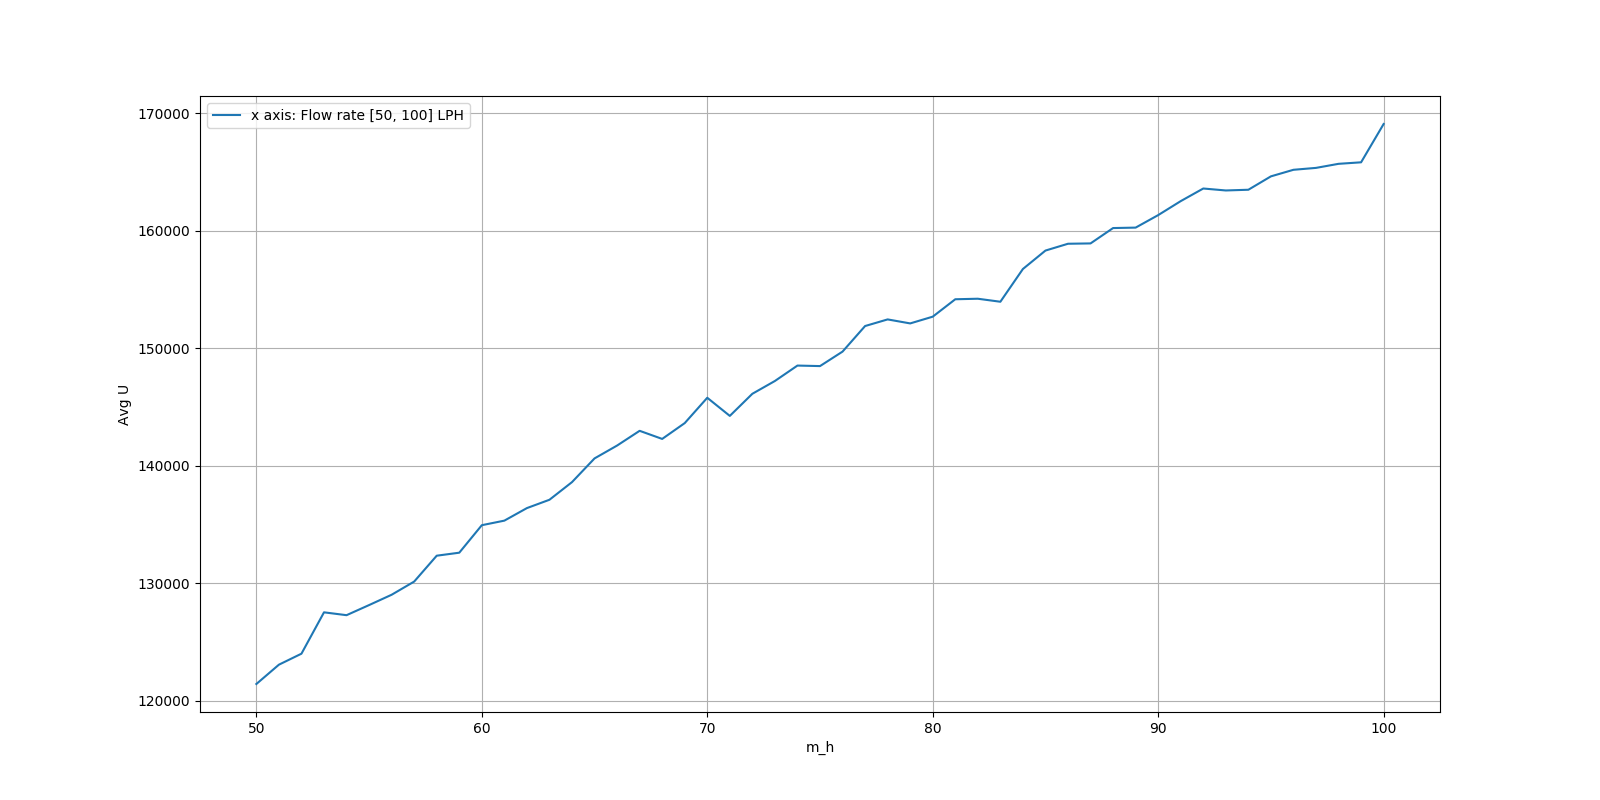
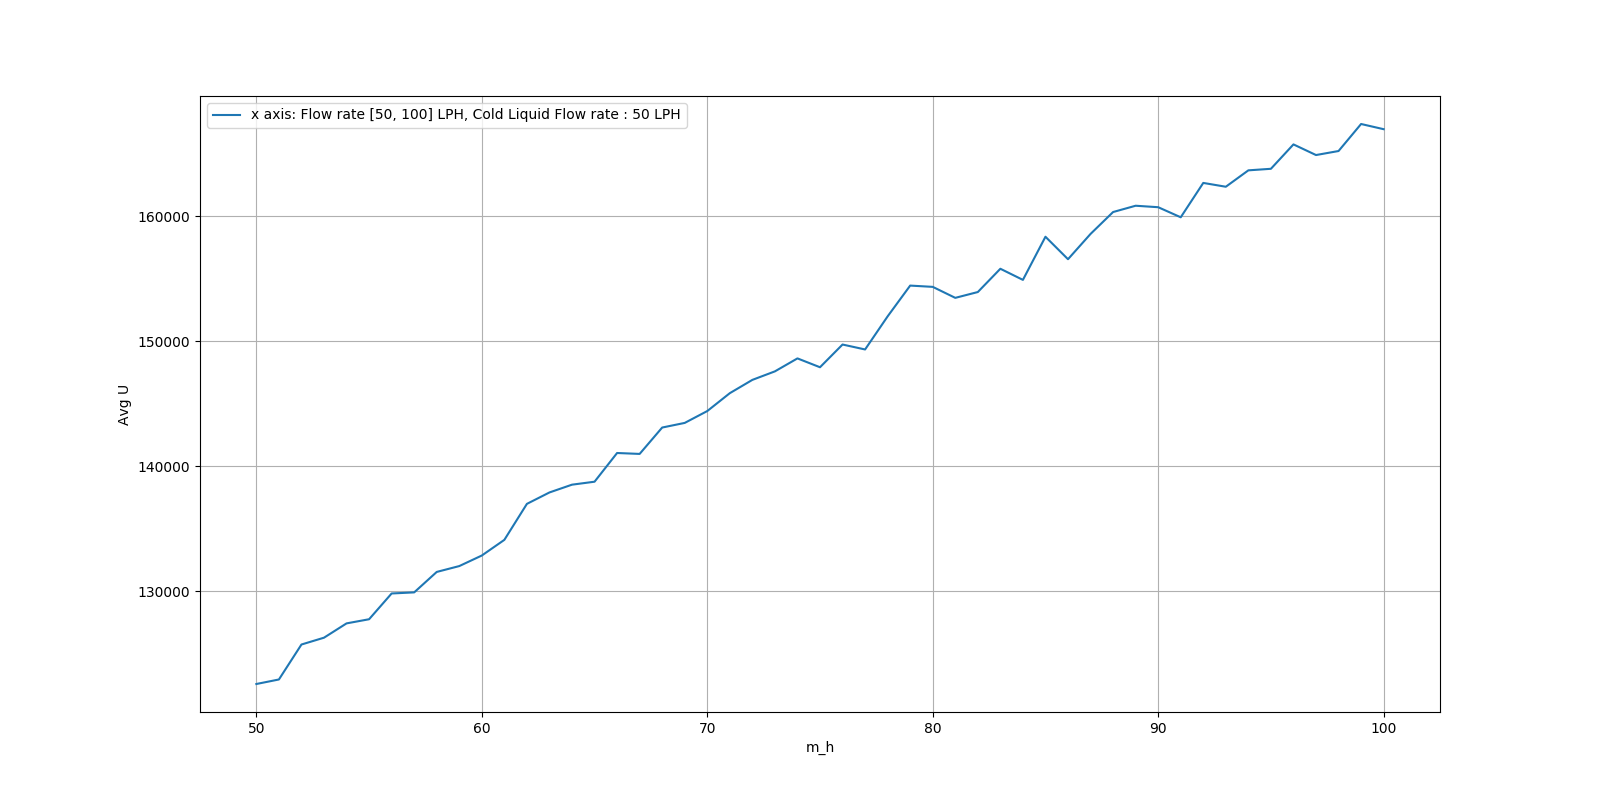
corrected (U,e) vs m_h

diff --git a/exp1/main.py b/exp1/main.py
@@ -12,7 +12,7 @@ def show(x, y, title='Avg Overall Heat Transfer Coeff of Exchanger vs DTC', xlab
     plt.ylabel(ylabel)
     plt.grid(True)
     plt.plot(x, y)
-    plt.legend(['x axis: Flow rate [50, 100] LPH'])
+    plt.legend(['x axis: Flow rate [50, 100] LPH, Cold Liquid Flow rate : 50 LPH'])
     plt.savefig('./results/' + saveas)
     plt.show()
 
@@ -40,8 +40,8 @@ def main(DTC, m_h):
         T_c_o = gen_T_o(T_th)
         avg_U.append(run(T_th, T_h_i, T_c_i, T_h_o, T_c_o, dtc, m))
         avg_e.append(run(T_th, T_h_i, T_c_i, T_h_o, T_c_o, dtc, m, flag=0))
-    show(m_h, avg_U, title='Avg Overall Heat Transfer Coeff vs Hot Liquid Flow Rate', xlabel='m_h', saveas='Uvsm_h.png')
-    show(m_h, avg_e, title='Avg Effectiveness of Exchanger vs Hot Liquid Flow Rate', xlabel='m_h', ylabel='Avg e', saveas='evsm_h.png')
+    show(m_h, avg_U, title='Avg Overall Heat Transfer Coeff vs Hot Liquid Flow Rate (DTC=50C)', xlabel='m_h', saveas='Uvsm_h.png')
+    show(m_h, avg_e, title='Avg Effectiveness of Exchanger vs Hot Liquid Flow Rate (DTC=50C)', xlabel='m_h', ylabel='Avg e', saveas='evsm_h.png')
 
 
 if __name__ == "__main__":
